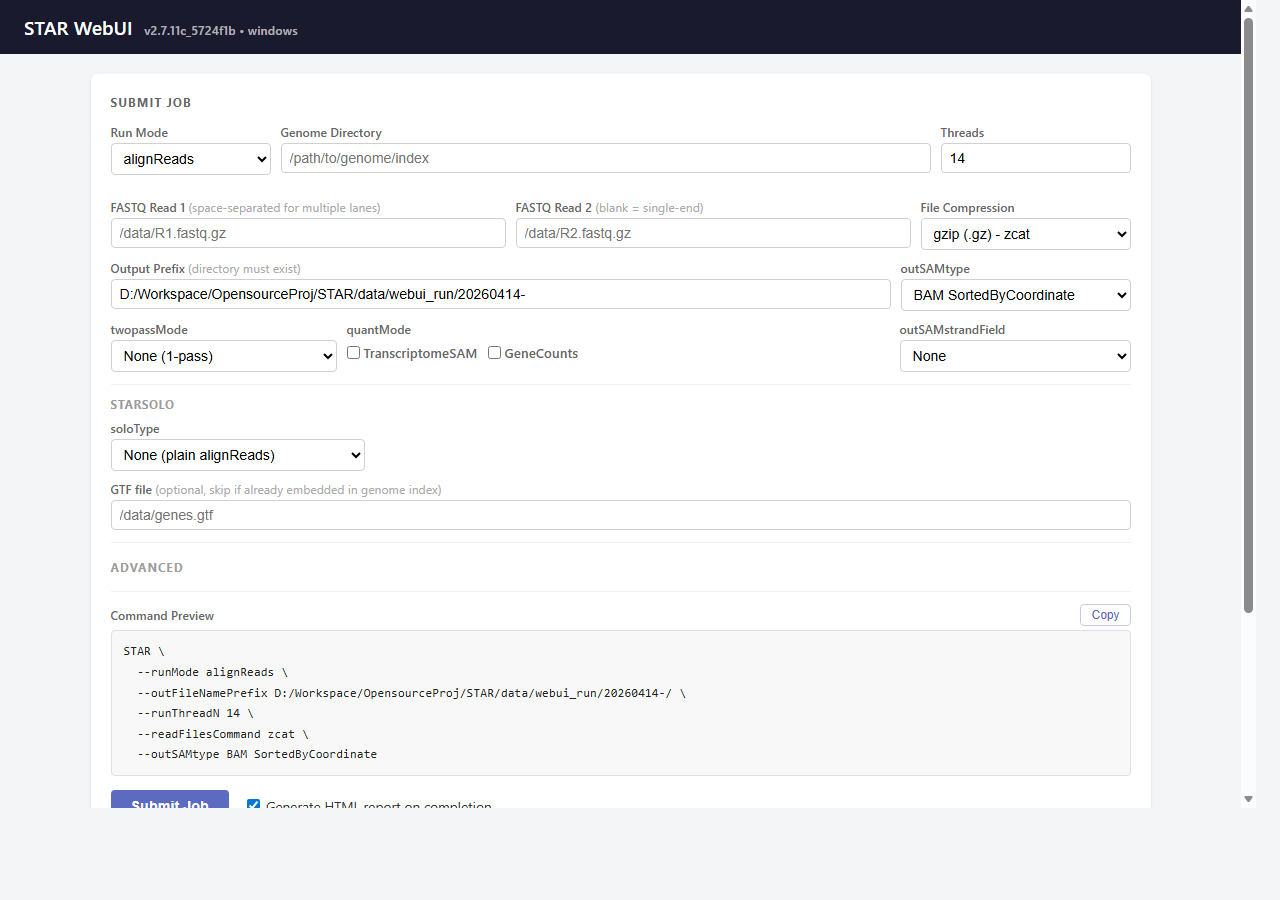
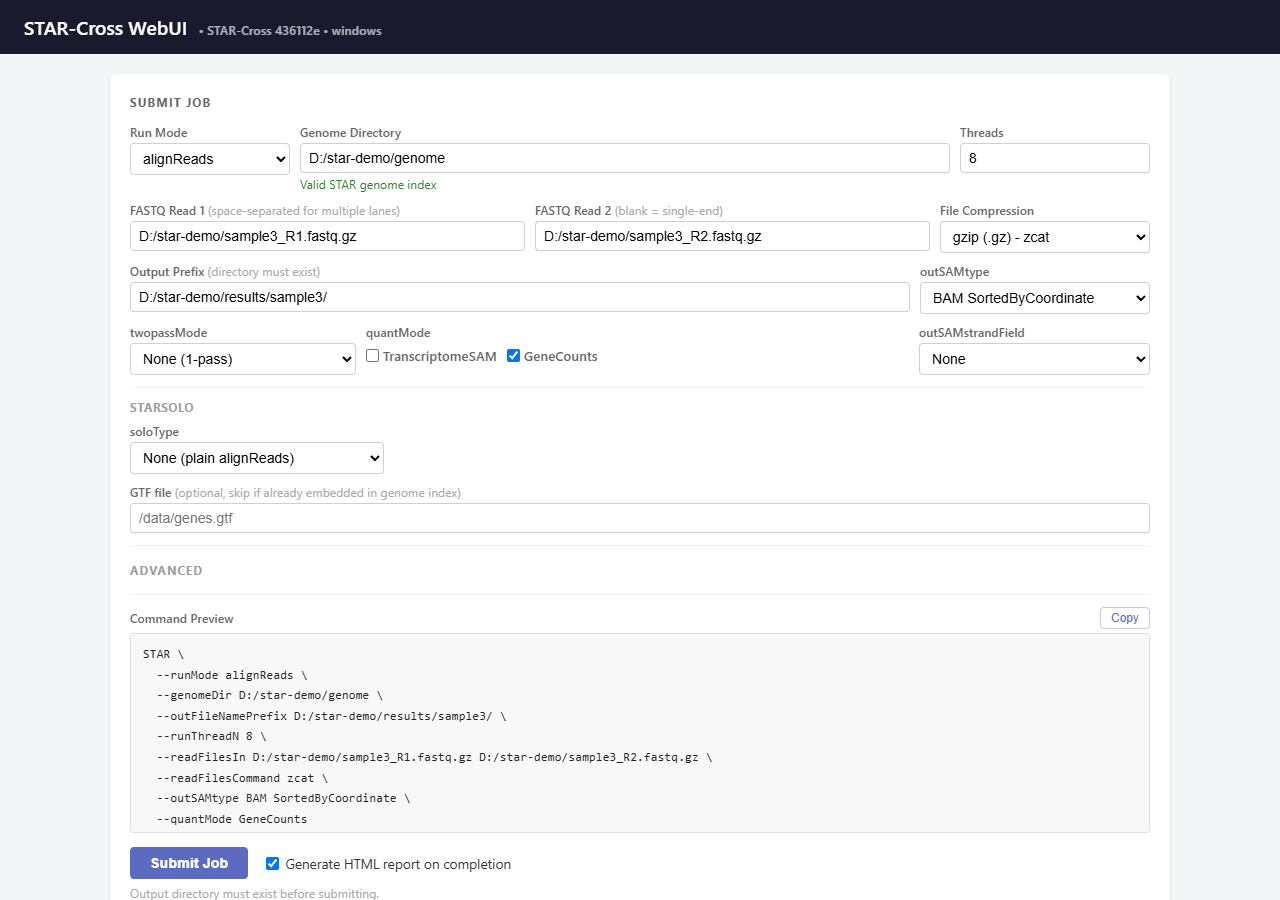
docs: STAR-Cross output-integrity changes; current WebUI screenshots
- CHANGES.md gets a STAR-Cross 0.0.1 (unreleased) section listing the
  behavior changes since 2.7.11b: fatal write errors (110), output files
  that cannot be opened fail before mapping (109), BAM refuses references
  over 2^31-1 bases (102), split long CIGAR gaps, readFilesCommand and
  internal-bug exits, 16+ thread SAindex, and the WebUI failure reasons.
  RELEASEnotes.md points to it; README "Differences and limits" adds a
  one-paragraph summary.
- docs/webui screenshots retaken from the current build with neutral
  demo paths, showing a failed job's reason line; the "illustrative"
  caveat is dropped.

diff --git a/CHANGES.md b/CHANGES.md
@@ -1,3 +1,25 @@
+STAR-Cross 0.0.1 (unreleased) ::: Output integrity
+===========================================
+Changes relative to STAR 2.7.11b. Successful runs write the same bytes as before these fixes on every platform; only runs that previously ended with damaged or truncated files behave differently. See also "Differences and limits" in [README.md](README.md).
+
+**Behavior changes: runs that used to report success now stop with an error**
+* Failed writes are fatal. A full disk or I/O error while writing SAM/BAM, SJ.out.tab, ReadsPerGene, Chimeric.out.*, Unmapped.out.mate*, STARsolo matrices, the genome index or the logs used to leave truncated files and exit 0 with "finished successfully". STAR now exits with code 110 (EXIT_CODE_FILE_WRITE), and Log.final.out is not written for a failed run.
+* Output files that cannot be opened (missing or read-only output directory, a prefix under a regular file) are reported before mapping starts, with exit code 109 (EXIT_CODE_FILE_OPEN), instead of after the whole run.
+* BAM output with a reference longer than 2,147,483,647 bases stops before mapping with exit code 102 (EXIT_CODE_PARAMETER). BAM stores reference lengths and positions as 32-bit signed integers, so such files were corrupt. SAM output is unaffected; use --outSAMtype SAM or split the reference.
+* A failing --readFilesCommand while reading the SAM header stops the run, reporting the command and its exit status.
+* Internal consistency failures ("BUG: ...") are written to Log.out and exit with code 101 (EXIT_CODE_BUG) instead of 255. --limitGenomeGenerateRAM 0 exits with 102 and is also reported on stderr.
+* bam_cat merging and BAM input for --inputBAMfile fail on read, write and close errors instead of producing partial output. Referenceless CRAM conversion keeps the BAM and removes the partial CRAM when closing the intermediate BAM fails.
+
+**Behavior changes: output records**
+* BAM CIGAR operations longer than 268,435,455 bases (a 28-bit field) are split into consecutive operations of the same type, e.g. 268435455N64545N. Earlier versions wrapped the length (268500000N became 64544N), which moved the alignment end and corrupted the record. SAM output writes the gap as one operation, as before; readers treat the split form as the same gap.
+* genomeGenerate with --runThreadN 16 or more now builds the same SAindex as upstream and as runs with fewer threads; before, it could differ on genomes with short runs of N.
+
+**Unchanged, now tested**
+* The BAM bin field for alignments past 2^29 bases (where the BAI scheme is undefined) equals what htslib writes for the same record. htslib and CSI indexing recompute it from POS and CIGAR on read; use `samtools index -c` (CSI) for chromosomes longer than 2^29 bases (about 537 Mb).
+
+**Web UI**
+* Failed jobs show the reason for the exit code and STAR's own error message, and a failed job with "Generate HTML report" set gets a report with a "Why it stopped" card. See [docs/webui/README.md](docs/webui/README.md#failed-jobs).
+
 STAR 2.7.11b --- 2024/01/24 ::: Minor in one parameter.
 ===========================================
 * Replaced --quantTranscriptomeBan parameter with --quantTranscriptomeSAMoutput with more explicit naming of options. The default behavior is not affected.

diff --git a/README.md b/README.md
@@ -97,6 +97,11 @@ preview, queue status and logs. See [Web UI usage](docs/webui/README.md).
   without `--soloType` follow `--soloStrand` (default Forward), rB in
   Aligned.toTranscriptome.out.bam uses transcript coordinates like POS, and
   SuperTranscriptome seeds stay inside the read.
+- **Output errors stop the run:** a failed write (exit 110), an output file that
+  cannot be opened (109, before mapping) or BAM output for a reference longer
+  than 2,147,483,647 bases (102) is an error, where upstream could exit 0 with
+  truncated or corrupt files. BAM CIGAR gaps longer than 268,435,455 bases are
+  split into consecutive operations. See [CHANGES.md](CHANGES.md).
 - **Windows limits:** shared-memory genome loading is unavailable; use
   `--genomeLoad NoSharedMemory`. `--readFilesCommand` uses temporary files rather
   than FIFO streaming, which can require additional disk space.

diff --git a/RELEASEnotes.md b/RELEASEnotes.md
@@ -1,3 +1,7 @@
+STAR-Cross 0.0.1 (unreleased) ::: Output integrity
+=================================================
+Runs that used to finish with truncated or corrupt files now stop with an error; long BAM CIGAR gaps are split. See [CHANGES.md](CHANGES.md).
+
 STAR 2.7.10a --- 2022/01/14 ::: New features, behavior changes and bug fixes
 ============================================================================
 See [CHANGES.md](CHANGES.md)

diff --git a/docs/webui/README.md b/docs/webui/README.md
@@ -83,4 +83,3 @@ to API clients as `exitReason` and `errorMessage` in `GET /jobs/<id>`.
 | 112 | error with a named pipe (FIFO) |
 | 127, -1 | STAR could not be started, or was stopped by a signal |
 
-The screenshots above predate the reason line and are illustrative.
